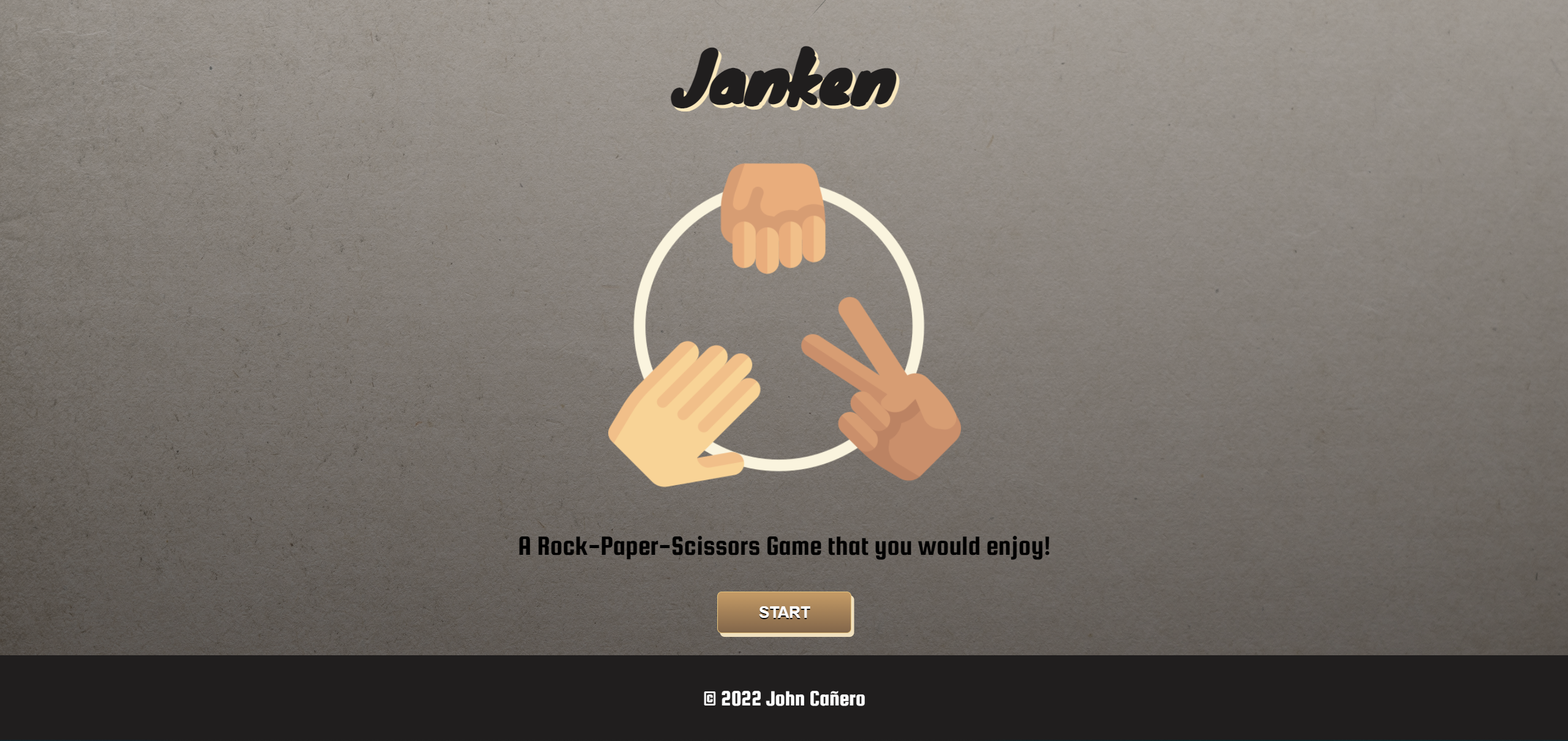
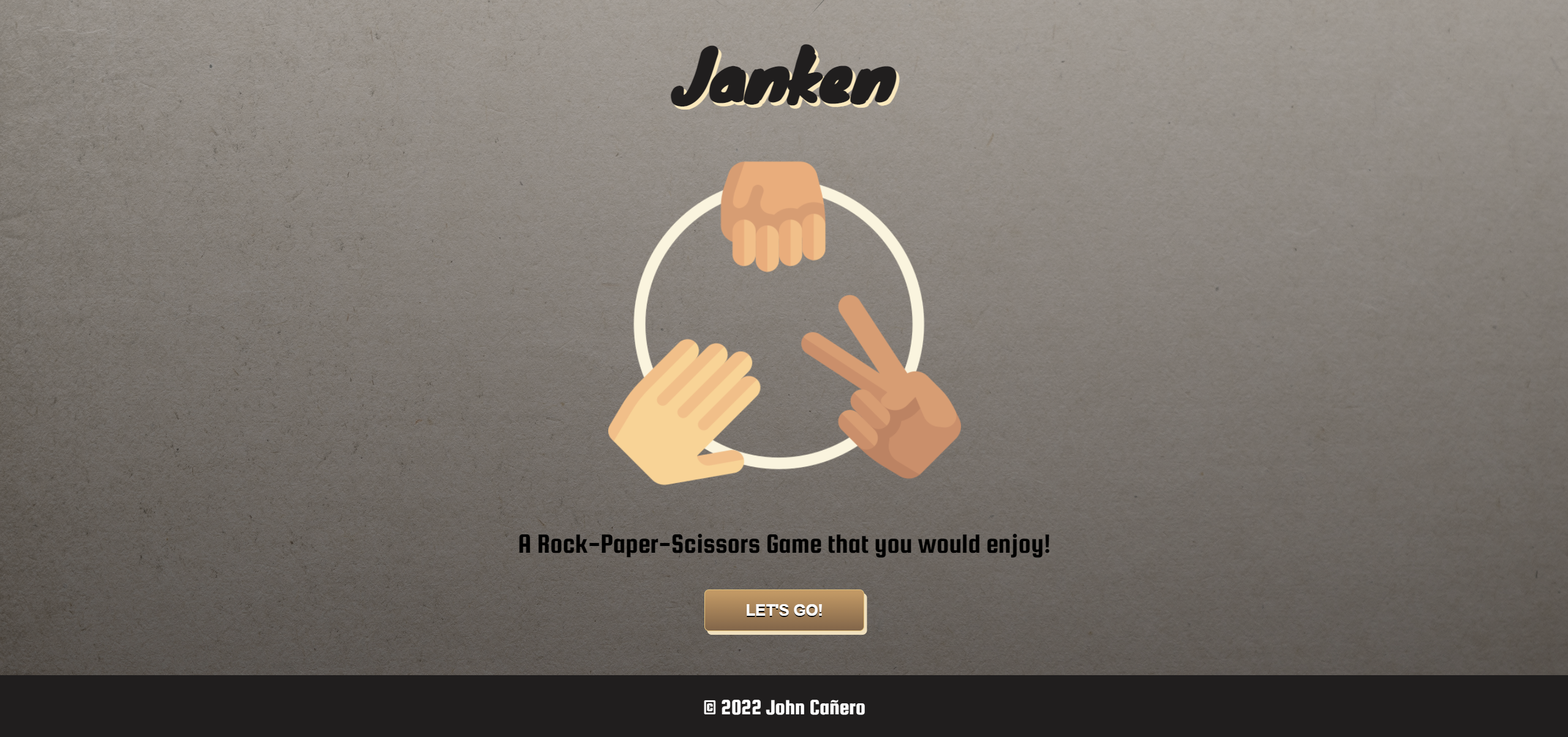
Add Comments, Update Images, and Study JS Files

Changed region(s): [[0.0, 0.799, 1.0, 0.9834], [0.4375, 0.0922, 0.5625, 0.1537], [0.4375, 0.7375, 0.4688, 0.7683]]

diff --git a/index.html b/index.html
@@ -20,9 +20,9 @@
 <body>
 
     <!-- Sounds Folder -->
-    <audio id="startButtonSound" src="sounds/startButtonSound.mp3"></audio>
-    <audio id="soundApplause" src="sounds/soundApplause.mp3"></audio>
-    <audio id="soundLose" src="sounds/soundLose.mp3"></audio>
+    <audio id="startbuttonsound" src="sounds/startButtonSound.mp3"></audio>
+    <audio id="winnersound" src="sounds/soundApplause.mp3"></audio>
+    <audio id="losersound" src="sounds/soundLose.mp3"></audio>
 
     <section>
         <div class="flex-container1">
@@ -35,7 +35,7 @@
                 <h3>A Rock-Paper-Scissors Game that you would enjoy!</h3>   
             </div>
 
-            <!-- Start Button-->
+            <!-- Start Button Functionality-->
             <div id="startContainer">
                 <button id="startButton" class="myButton" onclick="playSound()">
                     LET'S GO!

diff --git a/js/main.js b/js/main.js
@@ -18,16 +18,10 @@ function playSound() {
     buttonPress.play();
 }
 
-
+// Sound Start Game Button
 mainButton = document.querySelector("#startbutton").addEventListener("click", playSound);
+// Sound Play Again?
 mainButton = document.querySelector("#endbutton").addEventListener("click", playSound);
-
-
-var audio = new Audio("sounds/startButtonSound.mp3");
-document.onclick = function() {
-  audio.play();
-}
-
 
 
 // Function to play winner audio on win
@@ -43,8 +37,9 @@ function playLoseSound() {
 }
 
 // Function to hide start div and show end div
-let startContainer = document.getElementById('startcontainer');
+let startContainer = document.getElementById("startcontainer");
 let btn = document.querySelector("#startbutton");
+
 
 btn.addEventListener('click', function(){
     startContainer.style.opacity = 0;

diff --git a/js/index.js b/js/index.js
@@ -1,7 +1,7 @@
 // Start Button
 // Functions to play main button audio on click
 function playSound () {
-    const sound = document.getElementById("startButtonSound")
+    const sound = document.getElementById("startbuttonsound")
     sound.play();
     sound.addEventListener('ended', function() {
         location.href = "game.html";
@@ -9,9 +9,5 @@ function playSound () {
     // const buttonPress = document.querySelector("#startButtonSound");
     // buttonPress.play ();
 }
-
-// Function to hide start div and show end div
-let startContainer = document.getElementById("startContainer");
-let btn = document.querySelector("#startButton");
 
 

diff --git a/game.html b/game.html
@@ -34,6 +34,7 @@
     <section>
         <div class="flex-container1">
             <div class="titlePadding">   
+                <!-- Title functionality -->
                 <h1 id="gameh1"></h1>
                 <h3>A Rock-Paper-Scissors Game that you would enjoy!</h3>   
             </div>
